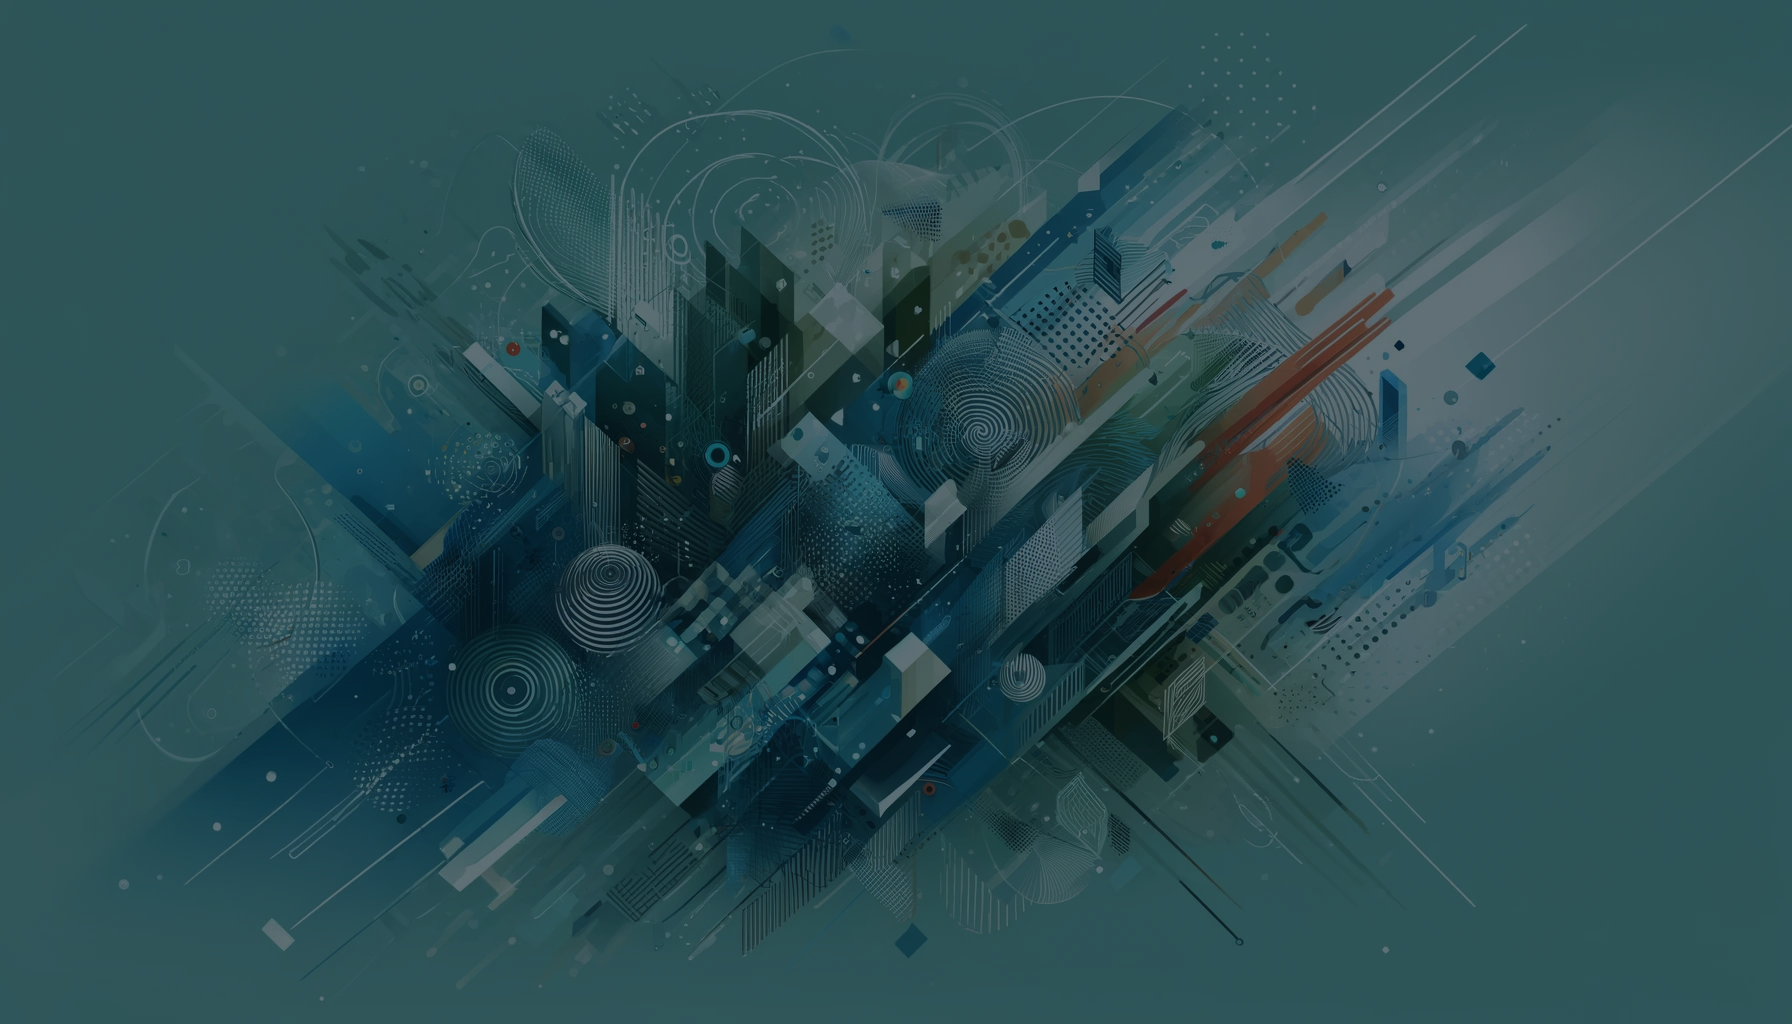
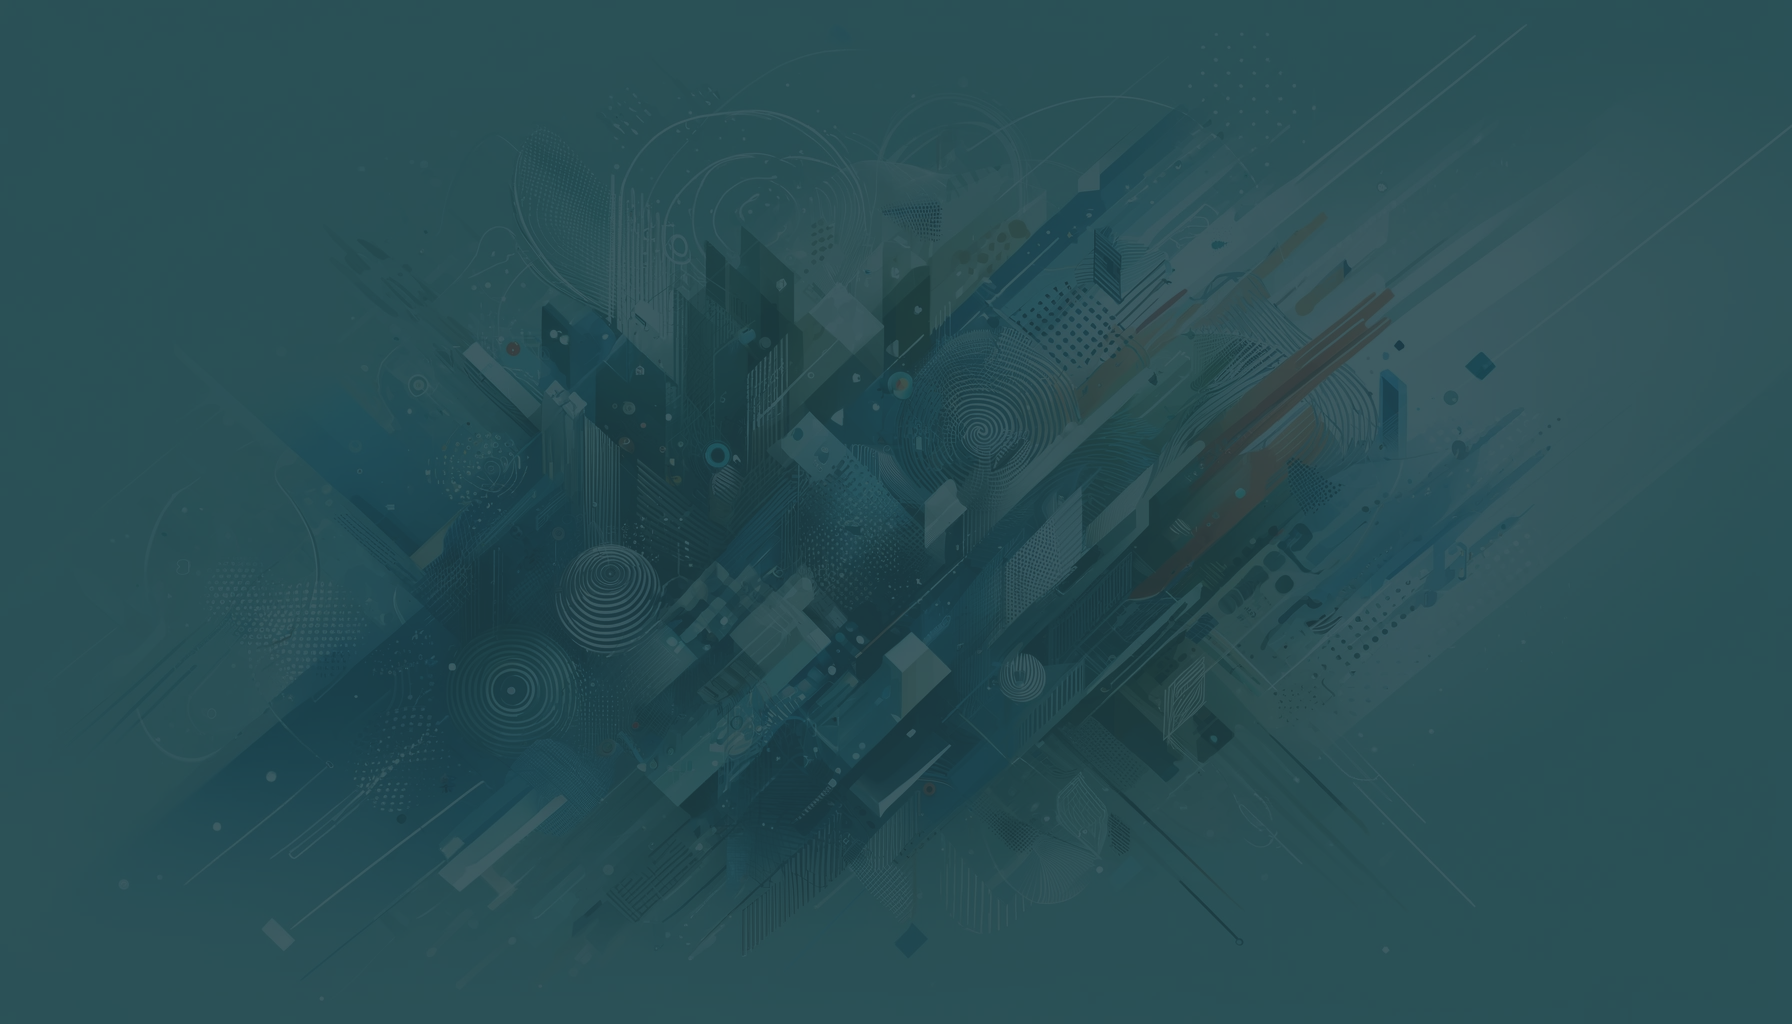
Fixed bg images

diff --git a/src/index.css b/src/index.css
@@ -23,7 +23,7 @@ Inside media queries 1em is always 16px i.e 1em = 16px at every screen size only
   --light-green: rgba(101, 146, 74, 0.8);
   --brown: rgba(129, 104, 8, 0.8);
   --light-brown: rgba(186, 155, 65, 0.8);
-  --main-color:  var(--n-blue);
+  --main-color:  #284e55;
 }
 *,
 *::after,
@@ -116,7 +116,7 @@ textarea {
     top: calc(100% + 1.5rem);
     height: 5px;
     width: 3rem;
-    background: rgba(var(--main-color), 1);
+    background: var(--main-color);
     left: 50%;
     transform: translateX(-50%);
     border-radius: 5px; }
@@ -168,12 +168,12 @@ textarea {
     padding: 1.5rem 5rem;
     font-size: 1.6rem; }
   .btn--theme {
-    background: rgba(var(--main-color), 1);
+    background: var(--main-color);
     color: #fff; }
   .btn--theme-inv {
-    color: rgba(var(--main-color), 1);
+    color: var(--main-color);
     background: #fff;
-    border: 2px solid rgba(var(--main-color), 1);
+    border: 2px solid var(--main-color);
     box-shadow: none;
     padding: calc(1.5rem - 2px) calc(5rem - 2px); }
 
@@ -383,7 +383,7 @@ font-size: 1.5rem;
 
 .contact {
   background: #222;
-  background-image: url('../assets/img/Write.png');
+  background-image: url('src/assets/contactbg2.png');
   background-size: cover;
   background-position: center; 
 }
@@ -522,7 +522,7 @@ font-size: 1.5rem;
     color: #333;
     transition: color .3s; }
     .header__logo-container:hover {
-      color: rgba(var(--main-color), 1); }
+      color: var(--main-color); }
   .header__logo-img-cont {
     width: 5rem;
     height: 5rem;
@@ -560,7 +560,7 @@ font-size: 1.5rem;
     font-weight: 700;
     transition: color .3s, transform .3s; }
     .header__link:hover {
-      color: rgba(var(--main-color), 1);
+      color: var(--main-color);
       transform: translateY(-5px); }
     @media only screen and (max-width: 56.25em) {
       .header__link {
@@ -606,7 +606,7 @@ font-size: 1.5rem;
     letter-spacing: 2px;
     transition: color .3s; }
     .header__sm-menu-link a:hover {
-      color: rgba(var(--main-color), 1); }
+      color: var(--main-color); }
   .header__sm-menu-link:first-child a {
     border-top: 1px solid #eee; }
   .header__sm-menu-link-last {
